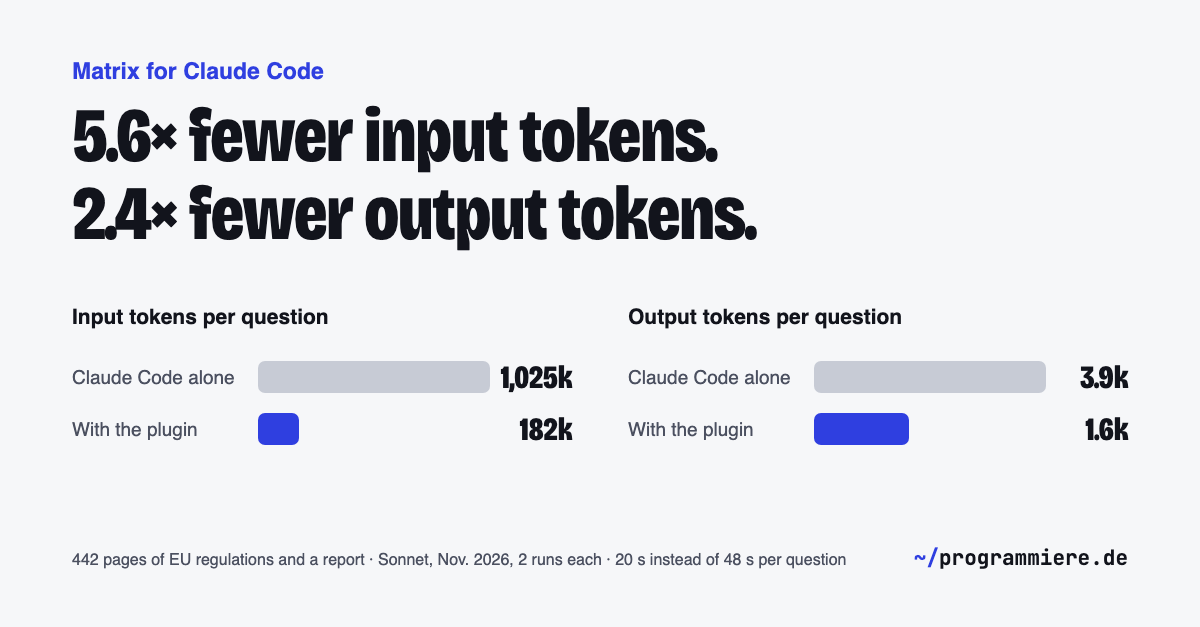
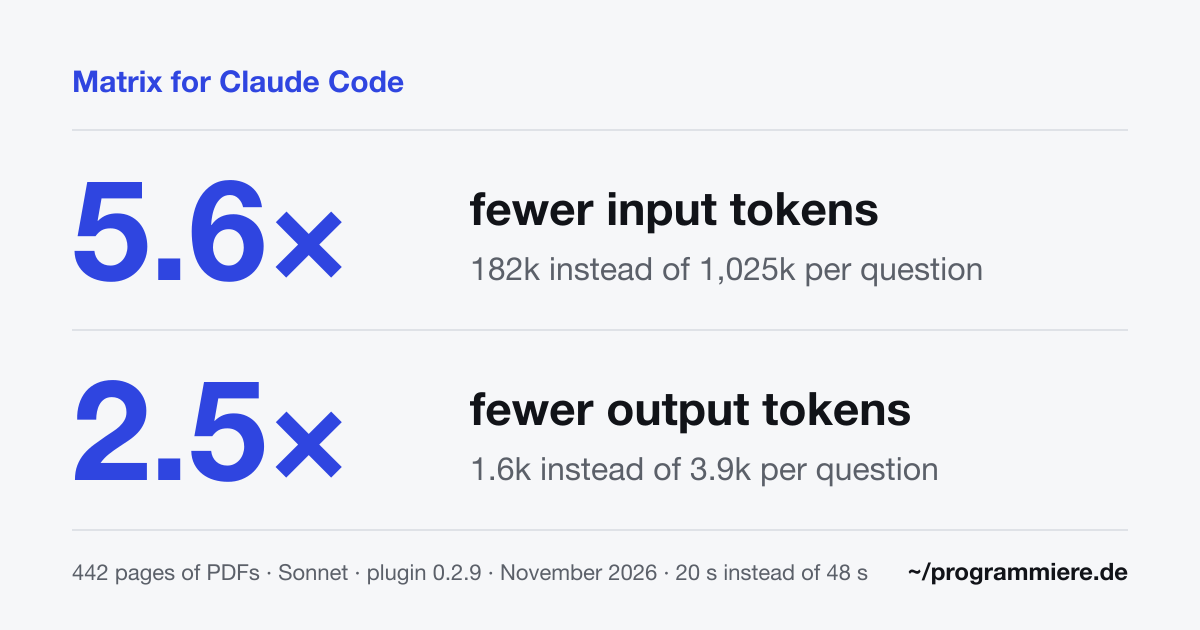
Plugin-Seite: 2,5× weniger Ausgabetokens (2,46 gerundet), API-Halbsatz raus, Grafik und Vorschaubild neu

diff --git a/src/data/cv.ts b/src/data/cv.ts
@@ -78,7 +78,7 @@ export const SIDE_QUESTS = [
     name: 'Matrix for Claude Code',
     pb: '5.6× fewer input tokens',
     what: 'Free Claude Code plugin: local semantic index over document folders, citations to file, page and passage, tables across documents.',
-    note: 'Measured on 442 pages: 5.6× fewer input tokens and 2.4× fewer output tokens per question, and 20 instead of 48 s.',
+    note: 'Measured on 442 pages: 5.6× fewer input tokens and 2.5× fewer output tokens per question, and 20 instead of 48 s.',
     href: '/projects/matrix-claude-code/',
   },
   {

diff --git a/src/content/projects/matrix-claude-code.md b/src/content/projects/matrix-claude-code.md
@@ -1,6 +1,6 @@
 ---
 title: Matrix for Claude Code
-summary: "A free plugin that gives Claude Code a local, searchable index of your PDFs, Word files, scans and charts. Measured on 442 pages: 5.6× fewer input tokens per question, 2.4× fewer output tokens, and 20 instead of 48 seconds."
+summary: "A free plugin that gives Claude Code a local, searchable index of your PDFs, Word files, scans and charts. Measured on 442 pages: 5.6× fewer input tokens per question, 2.5× fewer output tokens, and 20 instead of 48 seconds."
 status: Public · v0.2.9
 order: 1.5
 featured: true
